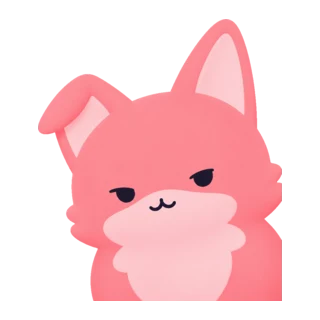
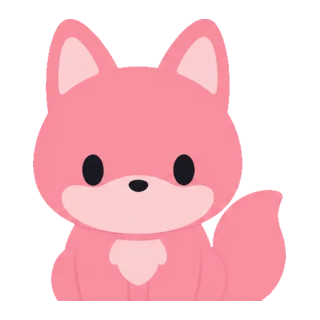
feat(brand): ship the Kanna sheet — one character everywhere
Replaces the A/B/C batch with the v1 Kanna sheet. The old set drew from three
separate generation directions, so the mascot had three eye treatments, three
ear silhouettes and a chest blaze that appeared, vanished and came back — it
never read as the same animal twice. Now every surface, terminal and site, is
one fox.

Two poses from the sheet are deliberately held back. `seek` reads as a low idle
rather than a hunt and is nearly indistinguishable from `idle` at nav size, and
`peek` was drawn leaning on a ledge in the same rose as her fur, so the alpha
cut keeps the ledge and she ships welded to a pink slab. Six good poses of one
fox beats eight where two are wrong; both are queued for a redraw.

Adds `oops` and `nap`, each with a real consumer rather than as spare art:
oops is the 404, nap is the goodbye screen. The hero's alert pose is `watch`
now — the same animal turning to look at you, where `wait` was a different
direction of the old batch and read as a second fox appearing.

The nav loads the sheet's own head-and-shoulders view, drawn for that job
rather than cropped down to it — cropping a standing pose put her eyes on the
bottom edge.

Facing is simpler as a result: the sheet draws each pose once in whichever
direction reads best, and the other side is a flip. The tests now assert that
invariant, and the alpha and size guards derive their file list from the pose
union so a new pose cannot be added without being checked.
[…]

diff --git a/.reference/design/brand/export-fox-assets.ts b/.reference/design/brand/export-fox-assets.ts
@@ -71,40 +71,50 @@ const WEBP_QUALITY = "88";
 const FILL_RATIO = 0.88;
 
 /**
- * Docs stills. `*-right` / `*-left` names describe which way the character
- * faces, which is not the same as the `ll` / `lr` corner the master emerged
- * from — see `kunai-fox.tsx` for how facing is resolved.
+ * Every still the site and the terminal load, all from the Kanna v1 sheet.
+ *
+ * One character now. The previous set drew from three separate generation
+ * directions — Operator, Courier, Watcher — which meant three eye treatments,
+ * three ear silhouettes and a chest blaze that came and went, so the mascot
+ * never read as the same animal twice.
+ *
+ * Two poses from that sheet are deliberately not here. `seek` reads as a low
+ * idle rather than a hunt, and `peek` was drawn leaning on a ledge in the same
+ * rose as her fur, so the alpha cut keeps the ledge and she ships welded to a
+ * pink slab. Both are queued for a redraw; shipping six good poses of one fox
+ * beats eight where two are wrong.
+ *
+ * Facing is resolved by `kunai-fox.tsx`, which flips the drawn still when a
+ * direction has no master of its own.
  */
 const DOCS_STILLS_BY_NAME = {
-  wait: "kunai-ip-A1-operator-ll.png",
-  "wait-right": "kunai-ip-A2-operator-lr.png",
-  go: "kunai-ip-B1-courier-ll.png",
-  "go-left": "kunai-ip-B2-courier-lr.png",
-  watch: "kunai-ip-C1-watcher-ll.png",
-  idle: "kunai-ip-C2-watcher-lr.png",
+  idle: "kanna-sheet-1-front-sit.png",
+  wait: "kanna-sheet-2-three-quarter.png",
+  go: "kanna-pose-carry.png",
+  watch: "kanna-pose-watch.png",
+  oops: "kanna-sheet-5-oops.png",
+  nap: "kanna-sheet-4-nap.png",
 } as const;
 
 /** The four poses the terminal companion loads, same masters as the docs set. */
 const CLI_PETS_BY_NAME = {
-  wait: "kunai-ip-A1-operator-ll.png",
-  go: "kunai-ip-B1-courier-ll.png",
-  watch: "kunai-ip-C1-watcher-ll.png",
-  idle: "kunai-ip-C2-watcher-lr.png",
+  idle: "kanna-sheet-1-front-sit.png",
+  wait: "kanna-sheet-2-three-quarter.png",
+  go: "kanna-pose-carry.png",
+  watch: "kanna-pose-watch.png",
+  oops: "kanna-sheet-5-oops.png",
+  nap: "kanna-sheet-4-nap.png",
 } as const;
 
 /**
  * The nav mark, and the OG bake.
  *
- * Both are C2 — the same still the home hero uses. An earlier pass used A2 here
- * because the Operator survives 28px better, but the nav sits on every page
- * directly above the hero, so the two most-seen foxes on the site were visibly
- * different animals. Matching the hero matters more than the extra legibility.
- *
- * `NAV_CROP` keeps the top of the figure: the whole character at 28px is a
- * smudge, the head alone reads.
+ * The sheet's own head-and-shoulders view, which is drawn for this job rather
+ * than cropped down to it — the full figure is a smudge at 28px, and cropping a
+ * standing pose put her eyes on the bottom edge.
  */
-const NAV_MASTER = "kunai-ip-C2-watcher-lr.png";
-const NAV_CROP = 85;
+const NAV_MASTER = "kanna-sheet-6-bust.png";
+const NAV_CROP = 100;
 
 /**
  * Why this shells out instead of using `Bun.Image`.
@@ -234,7 +244,8 @@ for (const [name, file] of Object.entries(CLI_PETS_BY_NAME)) {
 }
 
 // Inlined as base64 into two OG route bundles, so this one is sized to its
-// budget rather than to the 360px the card draws it at. A social card is read
-// small; the softness costs less than doubling two bundles would.
+// ~40 KB budget rather than to the 360px the card draws it at. A social card is
+// read small; the softness costs less than doubling two bundles would.
+// Guarded by `kunai-fox.test.ts`, which fails if the data URL grows past it.
 const ogDest = path.join(BRAND, "kunai-mascot-og.png");
-console.log(`og   kunai-mascot-og.png ${await exportStill(NAV_MASTER, ogDest, 224, "png")} bytes`);
+console.log(`og   kunai-mascot-og.png ${await exportStill(NAV_MASTER, ogDest, 192, "png")} bytes`);

diff --git a/apps/docs/test/kunai-fox.test.ts b/apps/docs/test/kunai-fox.test.ts
@@ -68,7 +68,7 @@ describe("fox stills on disk", () => {
     // uncut still paints a box on whatever sits behind it. And a still cut to
     // only two alpha levels has hard stair-stepped edges, which is what a
     // palette PNG produces and what made the nav mark look ragged.
-    for (const name of ["idle", "watch", "go", "go-left", "wait", "wait-right", "nav"]) {
+    for (const name of [...KUNAI_FOX_POSES, "nav"]) {
       const file = path.join(DOCS_APP_ROOT, "public/brand/fox", `${name}.webp`);
       expect(hasPerPixelAlpha(file), `${name} per-pixel alpha`).toBe(true);
     }
@@ -78,7 +78,7 @@ describe("fox stills on disk", () => {
     // The terminal is where an opaque or hard-edged pet is most obvious,
     // because the background belongs to the user, not to us.
     const pets = path.resolve(DOCS_APP_ROOT, "../cli/src/app-shell/brand/pets");
-    for (const name of ["idle", "watch", "go", "wait"]) {
+    for (const name of KUNAI_FOX_POSES) {
       const file = path.join(pets, `${name}.png`);
       expect(hasPerPixelAlpha(file), `${name} per-pixel alpha`).toBe(true);
     }
@@ -104,24 +104,25 @@ describe("fox stills on disk", () => {
 });
 
 describe("facing", () => {
-  test("a drawn pair is used as drawn, never mirrored", () => {
-    // `go` and `wait` are the only poses with a real mirrored master.
-    for (const pose of ["go", "wait"] as const) {
-      for (const facing of FACINGS) {
-        expect(resolveFoxStill(pose, facing).mirrored, `${pose}/${facing}`).toBe(false);
-      }
-    }
-    expect(resolveFoxStill("go", "left").src).not.toBe(resolveFoxStill("go", "right").src);
-  });
-
-  test("a pose drawn only one way is flipped rather than silently ignored", () => {
-    // The shape this replaced returned the same file for both directions, so
-    // `facing` was a prop that changed nothing on half the poses.
-    for (const pose of ["idle", "watch"] as const) {
+  test("every pose is drawn once and flipped for the other direction", () => {
+    // The sheet draws each pose in whichever direction reads best for it, so
+    // exactly one side is the drawn still and the other is a CSS flip. The
+    // shape this replaced returned the same file for both directions on half
+    // the poses, which made `facing` a prop that changed nothing.
+    for (const pose of KUNAI_FOX_POSES) {
       const left = resolveFoxStill(pose, "left");
       const right = resolveFoxStill(pose, "right");
-      expect(left.src, pose).toBe(right.src);
+      expect(left.src, `${pose} uses one master`).toBe(right.src);
       expect(left.mirrored !== right.mirrored, `${pose} flips exactly one side`).toBe(true);
+    }
+  });
+
+  test("the default facing is the direction the still was actually drawn in", () => {
+    // If a pose defaulted to its mirrored side, every unstyled usage would show
+    // a flipped fox for no reason.
+    for (const pose of KUNAI_FOX_POSES) {
+      const html = renderToStaticMarkup(KunaiFox({ pose }));
+      expect(html, `${pose} default`).not.toContain("kunai-fox--mirrored");
     }
   });
 });

diff --git a/apps/docs/components/brand/kunai-fox.tsx b/apps/docs/components/brand/kunai-fox.tsx
@@ -1,6 +1,6 @@
 import type { CSSProperties } from "react";
 
-export const KUNAI_FOX_POSES = ["idle", "watch", "go", "wait"] as const;
+export const KUNAI_FOX_POSES = ["idle", "watch", "go", "wait", "oops", "nap"] as const;
 export type KunaiFoxPose = (typeof KUNAI_FOX_POSES)[number];
 export type KunaiFoxFacing = "left" | "right";
 
@@ -19,17 +19,19 @@ type KunaiFoxProps = {
 /**
  * The still each pose was drawn at, and which way that drawing faces.
  *
- * Only `go` and `wait` have a real mirrored pair in the master batch. Rather
- * than accept a `facing` the art cannot honour — the shape this had before,
- * where `watch` and `idle` silently returned the same file for both
- * directions — the odd direction is produced by flipping the still. Every
- * `facing` value therefore changes what renders.
+ * The sheet draws each pose once, in whichever direction reads best for it, so
+ * the opposite direction is produced by flipping that still rather than by
+ * silently returning the same file for both — which is the shape this had
+ * before, where `facing` changed nothing on half the poses. Every value now
+ * changes what renders.
  */
 const STILLS = {
-  wait: { left: "/brand/fox/wait.webp", right: "/brand/fox/wait-right.webp" },
-  go: { left: "/brand/fox/go-left.webp", right: "/brand/fox/go.webp" },
-  watch: { left: "/brand/fox/watch.webp", right: null },
   idle: { left: null, right: "/brand/fox/idle.webp" },
+  wait: { left: "/brand/fox/wait.webp", right: null },
+  go: { left: null, right: "/brand/fox/go.webp" },
+  watch: { left: "/brand/fox/watch.webp", right: null },
+  oops: { left: null, right: "/brand/fox/oops.webp" },
+  nap: { left: "/brand/fox/nap.webp", right: null },
 } satisfies Record<KunaiFoxPose, { left: string | null; right: string | null }>;
 
 /** Where each pose looks when the caller does not ask for a direction. */
@@ -38,6 +40,8 @@ const DEFAULT_FACING = {
   watch: "left",
   go: "right",
   wait: "left",
+  oops: "right",
+  nap: "left",
 } satisfies Record<KunaiFoxPose, KunaiFoxFacing>;
 
 /**

diff --git a/apps/cli/src/app-shell/companion-assets.ts b/apps/cli/src/app-shell/companion-assets.ts
@@ -1,5 +1,7 @@
 import goPng from "./brand/pets/go.png" with { type: "file" };
 import idlePng from "./brand/pets/idle.png" with { type: "file" };
+import napPng from "./brand/pets/nap.png" with { type: "file" };
+import oopsPng from "./brand/pets/oops.png" with { type: "file" };
 import waitPng from "./brand/pets/wait.png" with { type: "file" };
 import watchPng from "./brand/pets/watch.png" with { type: "file" };
 import type { CompanionPose } from "./companion-policy";
@@ -9,6 +11,8 @@ const PET_FILES = {
   watch: watchPng,
   go: goPng,
   wait: waitPng,
+  oops: oopsPng,
+  nap: napPng,
 } satisfies Record<CompanionPose, string>;
 
 /** Filesystem or `/$bunfs/` path; `Bun.file()` reads both. */

diff --git a/apps/docs/components/home/home-hero-static.tsx b/apps/docs/components/home/home-hero-static.tsx
@@ -18,7 +18,7 @@ export function HomeHeroStatic({ cliVersion, providerCount }: HomeHeroStaticProp
   return (
     <section className="kunai-hero-static kunai-reveal flex flex-col justify-center">
       <div className="kunai-hero-fox">
-        <KunaiFoxLive pose="idle" alertPose="wait" size={120} />
+        <KunaiFoxLive pose="idle" alertPose="watch" size={120} />
       </div>
       <p className="kunai-eyebrow">{homeHero.eyebrow}</p>
       <h1 className="kunai-display-title mt-3 max-w-3xl text-balance">{homeHero.title}</h1>

diff --git a/apps/cli/src/app-shell/exit-shell.tsx b/apps/cli/src/app-shell/exit-shell.tsx
@@ -65,7 +65,7 @@ export function ExitShell({ onDone }: { onDone: () => void }) {
     <Box flexDirection="column" paddingY={1}>
       {showFox ? (
         <Box marginBottom={1}>
-          <CompanionPet pose="idle" rows={4} />
+          <CompanionPet pose="nap" rows={4} />
         </Box>
       ) : null}
       <Text dimColor={isDim} color={palette.dim}>

diff --git a/apps/docs/app/not-found.tsx b/apps/docs/app/not-found.tsx
@@ -5,7 +5,7 @@ export default function NotFound() {
   return (
     <main className="mx-auto flex min-h-[70dvh] w-[min(720px,calc(100vw-32px))] flex-col items-start justify-center gap-6 py-16">
       <KunaiFoxBanner
-        pose="watch"
+        pose="oops"
         heading="h1"
         eyebrow="404"
         title="This page is not in the docs tree."

diff --git a/apps/cli/src/app-shell/companion-policy.ts b/apps/cli/src/app-shell/companion-policy.ts
@@ -1,7 +1,7 @@
 import { detectImageCapability } from "@/image";
 import { isMultiplexed } from "@/image/capability";
 
-export type CompanionPose = "idle" | "watch" | "go" | "wait";
+export type CompanionPose = "idle" | "watch" | "go" | "wait" | "oops" | "nap";
 
 /**
  * What the companion is allowed to be on this run.
